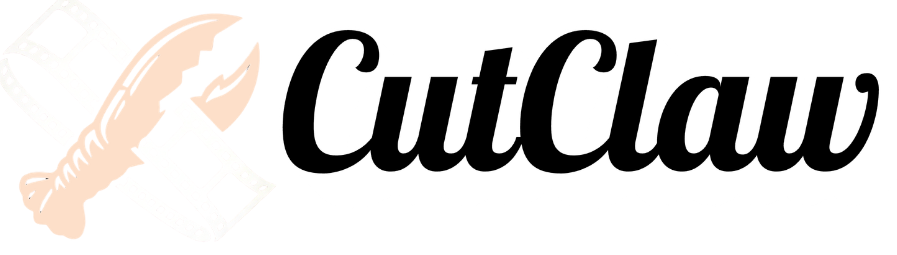
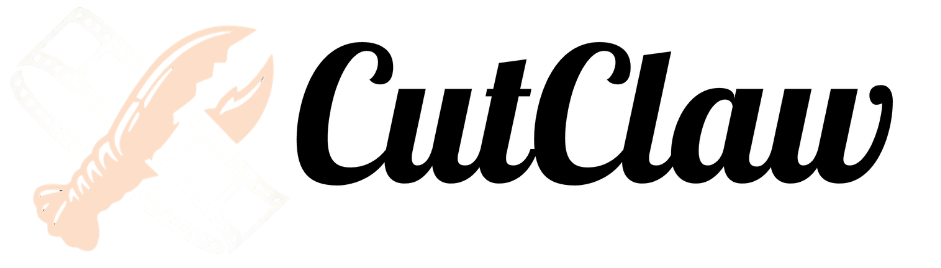
fix readme:fix_logo

Changed region(s): [[0.0, 0.0549, 0.9989, 0.9333]]

diff --git a/readme.md b/readme.md
@@ -2,7 +2,7 @@
 
 <picture>
   <source media="(prefers-color-scheme: dark)" srcset="asset/CutClaw_dark.png" />
-  <source media="(prefers-color-scheme: light)" srcset="asset/Cutclaw_light.png" />
+  <source media="(prefers-color-scheme: light)" srcset="asset/CutClaw_light.png" />
   <img src="asset/Cutclaw_light.png" alt="CutClaw teaser" width="50%" />
 </picture>
 
